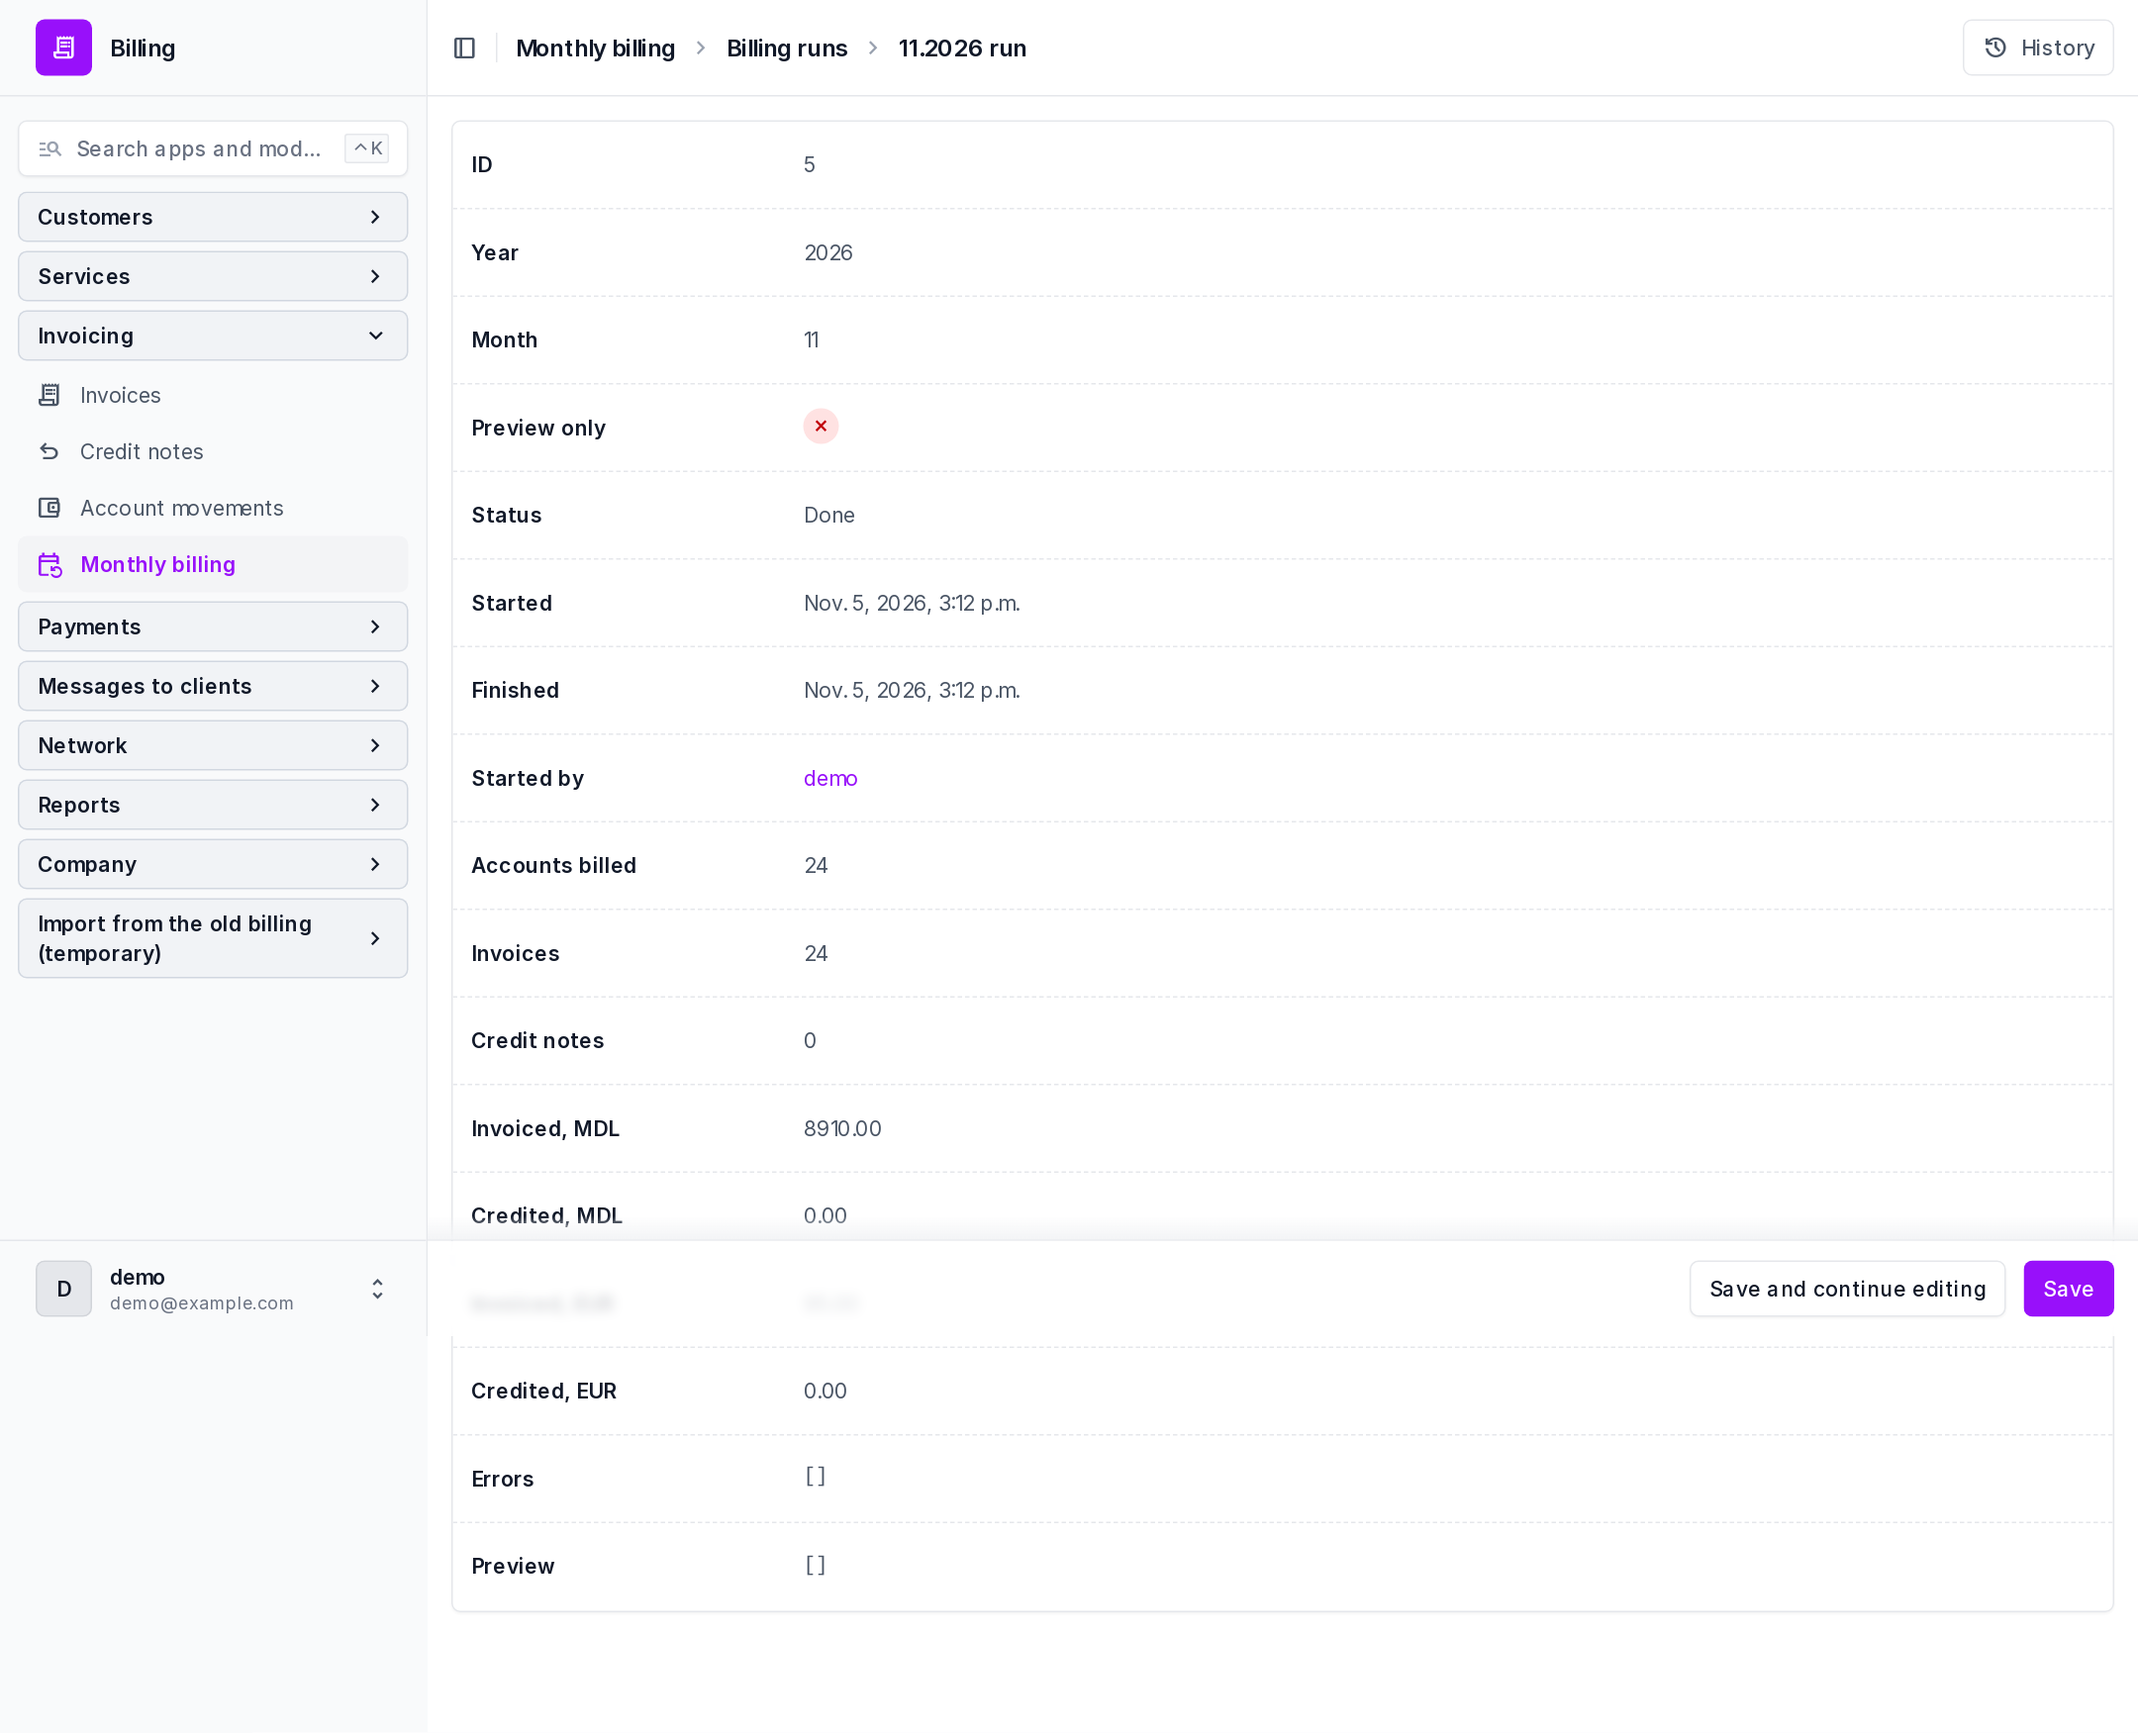
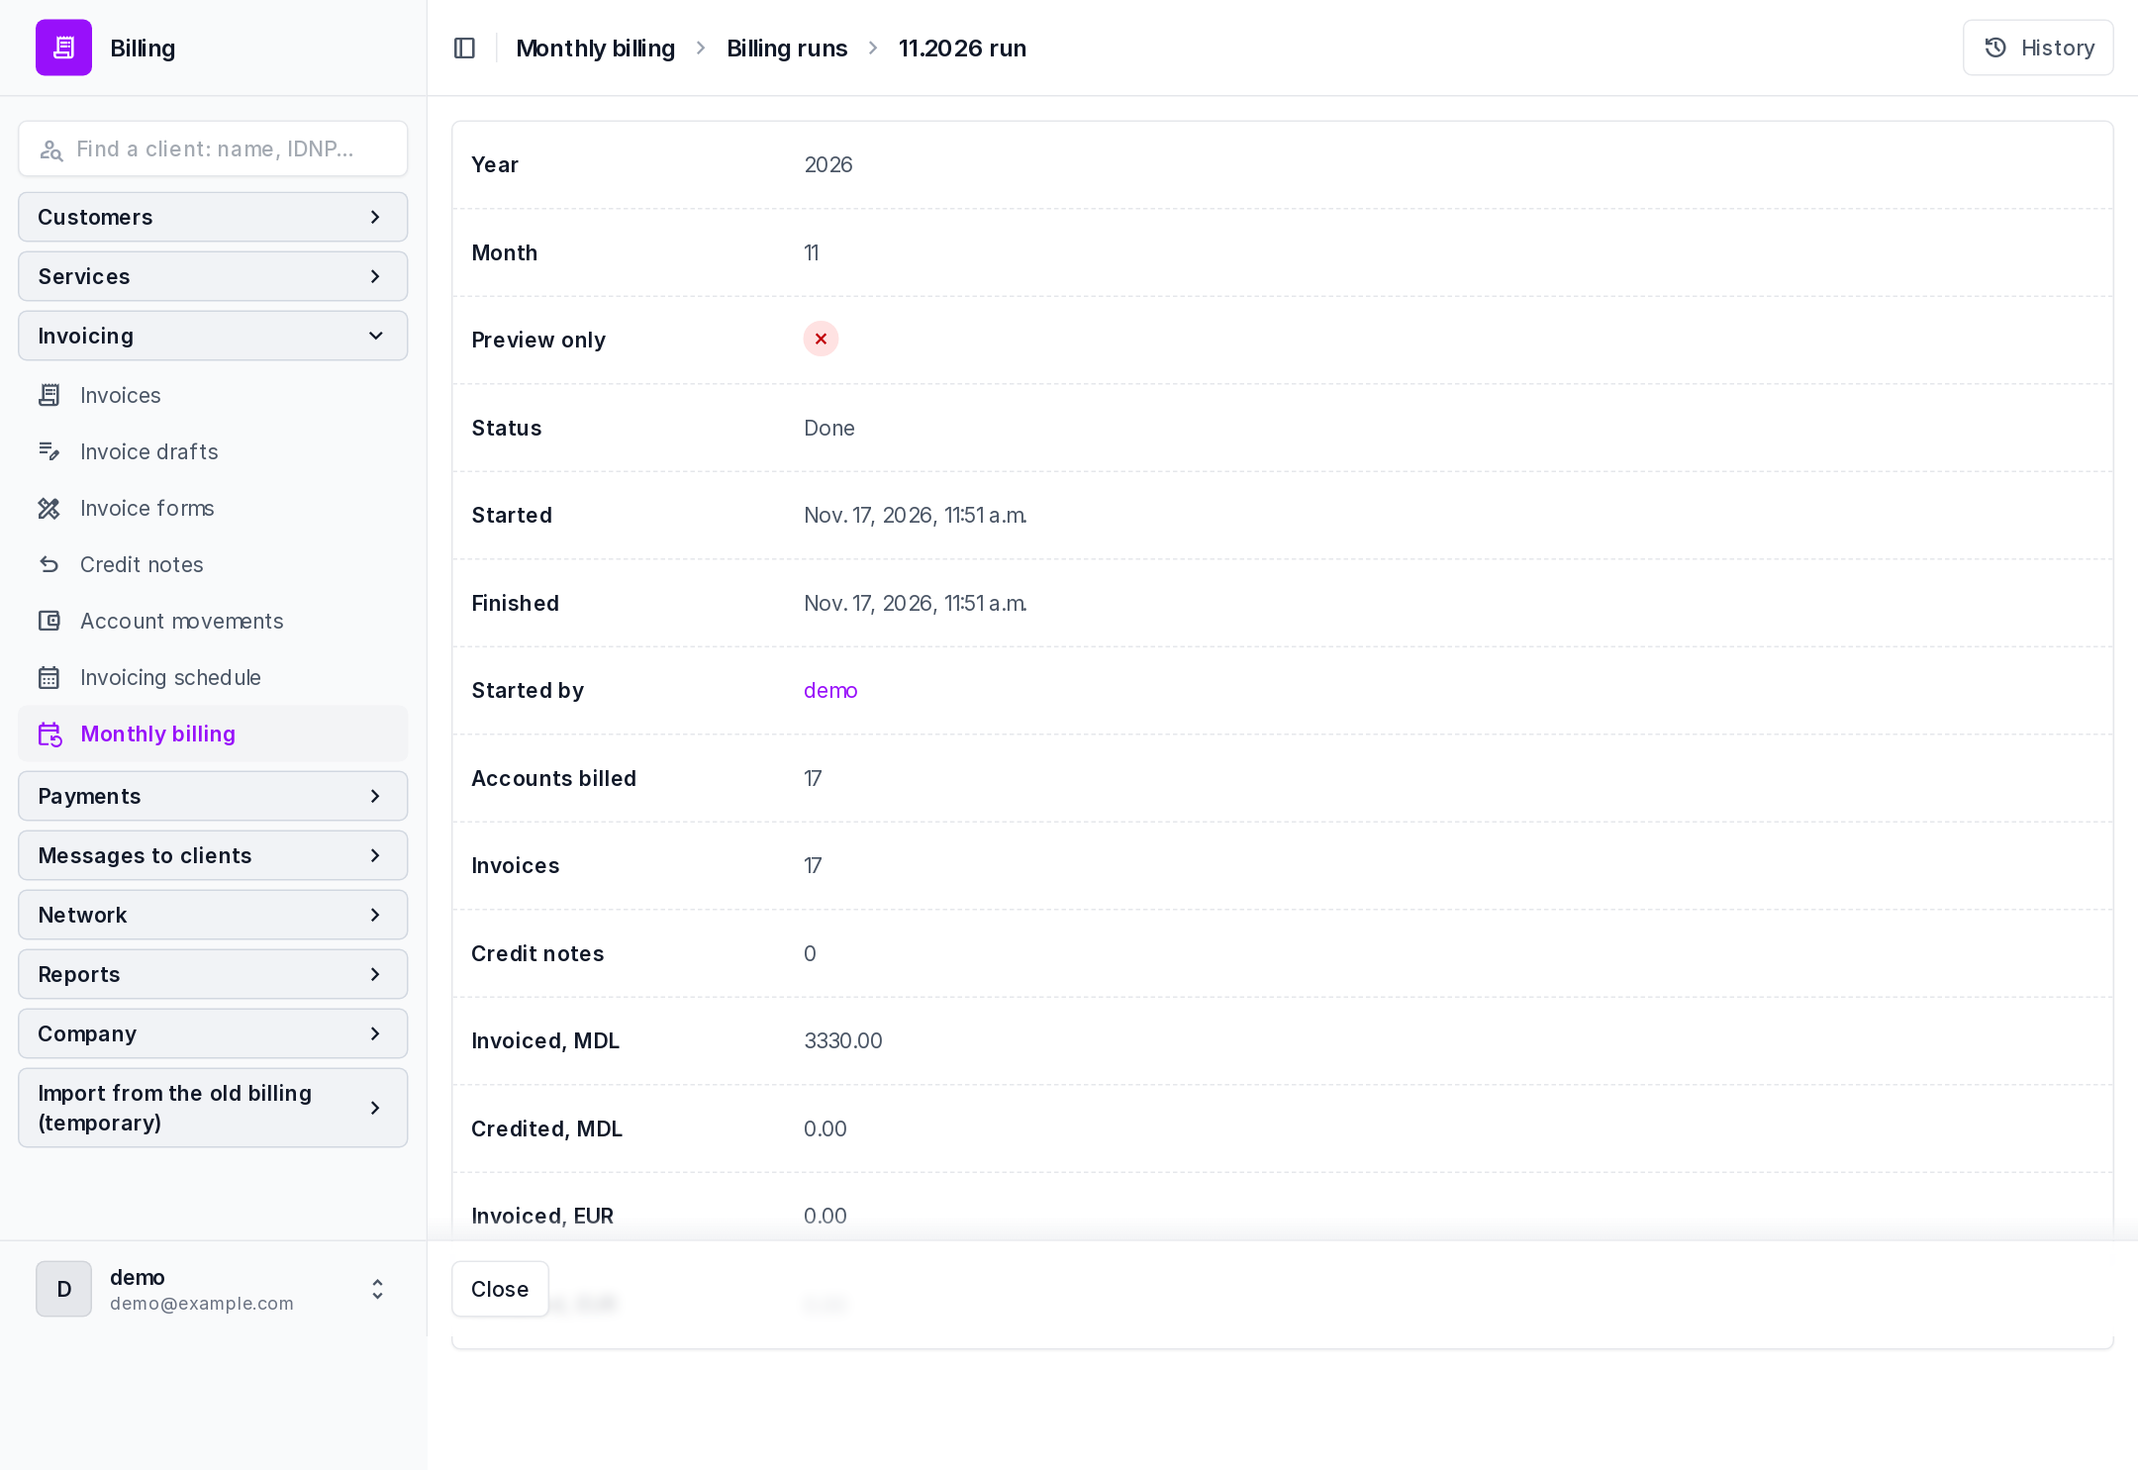
Update screenshots to the current version
New pages: home, data checks, invoicing schedule, dry run, payment files,
print, paid ahead, columns, drafts; refreshed the existing ones.

diff --git a/README.md b/README.md
@@ -111,19 +111,27 @@ were taken from a throwaway copy of the system filled with demo data.
 | ![Clients](screenshots/en/01_clients.png) Clients | ![Legal entity](screenshots/en/03_legal_entity_card.png) Legal entity card |
 | ![Service](screenshots/en/04_service.png) A service with speeds and its history | ![Products](screenshots/en/05_products.png) Service catalogue |
 | ![Invoices](screenshots/en/06_invoices.png) Invoices | ![Invoice](screenshots/en/07_invoice.png) An invoice |
-| ![Invoice PDF](screenshots/pdf/invoice_pdf_ro.png) Invoice PDF (Romanian) | ![Invoice PDF](screenshots/pdf/invoice_pdf_ru.png) Invoice PDF (an early Russian version) |
+| ![Invoice PDF](screenshots/pdf/invoice_pdf_ro.png) Invoice PDF, the classic form | ![Invoice PDF](screenshots/pdf/invoice_pdf_ru.png) Invoice PDF of a Russian-speaking client (invoices are in Romanian) |
 | ![Monthly billing](screenshots/en/08_monthly_billing.png) A monthly billing run | ![Payments](screenshots/en/09_payments.png) Payments |
 | ![Bank statement](screenshots/en/10_bank_statement.png) Bank statement matching | ![Contract inbox](screenshots/en/11_contract_inbox.png) Contract inbox |
 | ![Income](screenshots/en/13_report_income.png) Income report | ![Unpaid](screenshots/en/14_report_unpaid.png) Unpaid by age |
 | ![Statuses](screenshots/en/15_report_statuses.png) Service statuses | ![Clients report](screenshots/en/16_report_clients.png) New and lost clients |
 | ![Template](screenshots/en/17_message_template.png) Message template | ![Schedule](screenshots/en/18_mailing_schedule.png) Mailing schedule |
 | ![Company](screenshots/en/19_company_details.png) Company details and settings | ![Journal](screenshots/en/20_activity_journal.png) Activity journal |
+| ![Home](screenshots/en/22_home.png) Home page: income, tiles, what waits, charts | ![Data checks](screenshots/en/23_data_checks.png) Data checks |
+| ![Schedule](screenshots/en/24_invoicing_schedule.png) Invoicing schedule | ![Dry run](screenshots/en/25_dry_run.png) Dry run of a month, as cards |
+| ![Payment files](screenshots/en/26_payment_reports.png) Files for Paynet and the post office | ![Print](screenshots/en/27_print_invoices.png) Print file of a month |
+| ![Paid ahead](screenshots/en/28_paid_ahead.png) Paid ahead | ![Columns](screenshots/en/29_columns.png) Columns chosen by each person |
+| ![Drafts](screenshots/en/31_invoice_drafts.png) Invoice drafts of legal entities | ![Old invoices](screenshots/en/12_invoice_inbox.png) Old invoices of legal entities |
+| ![Account](screenshots/en/21_account.png) An account | |
 
 The interface in Russian and Romanian:
 
 | | |
 |---|---|
 | ![RU](screenshots/ru/02_client_card.png) Client card (RU) | ![RO](screenshots/ro/02_client_card.png) Client card (RO) |
+| ![RU](screenshots/ru/22_home.png) Home page (RU) | ![RO](screenshots/ro/22_home.png) Home page (RO) |
+| ![RU](screenshots/ru/24_invoicing_schedule.png) Invoicing schedule (RU) | ![RO](screenshots/ro/26_payment_reports.png) Files for payment (RO) |
 | ![RU](screenshots/ru/13_report_income.png) Income (RU) | ![RO](screenshots/ro/10_bank_statement.png) Bank statement (RO) |
 
 ---

diff --git a/README.ru.md b/README.ru.md
@@ -109,8 +109,9 @@
 
 | | |
 |---|---|
-| ![Входящие договоры](screenshots/ru/11_contract_inbox.png) Входящие договоры | ![Доход](screenshots/ru/13_report_income.png) Отчёт о доходе |
-| ![Счёт PDF](screenshots/pdf/invoice_pdf_ro.png) PDF счёта на румынском | ![Счёт PDF](screenshots/pdf/invoice_pdf_ru.png) PDF счёта (ранняя русская версия) |
+| ![Главная](screenshots/ru/22_home.png) Главная страница | ![График](screenshots/ru/24_invoicing_schedule.png) График выставления |
+| ![Карточка клиента](screenshots/ru/02_client_card.png) Карточка клиента | ![Входящие договоры](screenshots/ru/11_contract_inbox.png) Входящие договоры |
+| ![Доход](screenshots/ru/13_report_income.png) Отчёт о доходе | ![Счёт PDF](screenshots/pdf/invoice_pdf_ro.png) PDF счёта, классическая форма |
 
 ---
 
